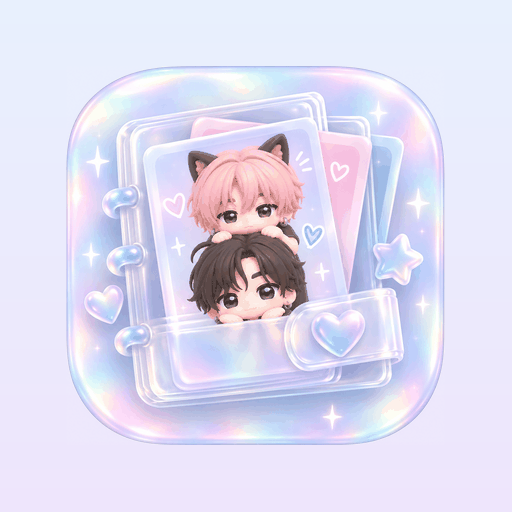
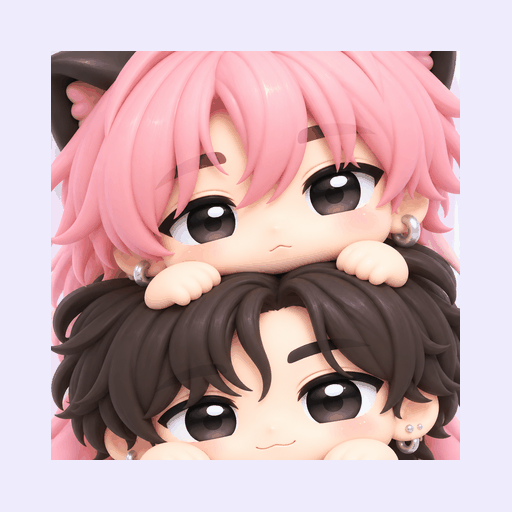
feat: 어두운 테마도 같은 주황으로, 앱 아이콘을 새 그림으로
블록의 다크만 노랑에 남아 있었다. 다른 스킨은 다크와 라이트가 같은 색을
밝기만 달리해 쓰므로, 여기만 노랑과 주황으로 갈리면 테마를 넘길 때 다른
스킨으로 건너간 것처럼 보인다. 밝은 데와 같은 색상(28도)에 세우고,
검은 판 위라 밝기만 70%로 올렸다.

아이콘은 받은 그림으로 갈아끼운다. 이번 그림은 둘레에 흰 여백이 없어
지난번처럼 바탕을 걷어낼 일이 없었고, 크기만 맞춰 줄였다.

마스커블만 다르게 짠다. 안드로이드 런처가 제 모양으로 잘라내므로 그림을
안쪽 80%에 두고 둘레는 원본 위쪽의 연보라로 채웠다 — 동그라미로 잘리든
둥근 네모로 잘리든 두 얼굴이 남는다.

색 수를 256으로 줄여 다섯 장을 296KB에 담았다.

Claude-Session: https://claude.ai/code/session_01AvifJj5rQXoC6UpGbHQjTL

diff --git a/src/styles/global.css b/src/styles/global.css
@@ -3217,10 +3217,15 @@ a { color: inherit; }
   --panel-line: #3d3540;
   --text: #f6f0ea;
   --text-dim: #a89e96;
-  /* 어두운 데서는 받은 색 그대로 — 노랑은 검은 판 위에서 가장 잘 산다 */
-  --accent: #fed672;
-  --accent-ink: #2b1e04;
-  --accent-soft: rgba(254, 214, 114, .18);
+  /*
+   * 어두운 데서도 밝은 데와 같은 색상(28도)에 선다. 다른 스킨도 다크와
+   * 라이트가 같은 색을 밝기만 달리해 쓰므로, 여기만 노랑과 주황으로
+   * 갈리면 테마를 넘길 때 다른 스킨으로 건너간 것처럼 보인다.
+   * 검은 판 위에서는 밝게 올려 두면 된다.
+   */
+  --accent: #ffad66;
+  --accent-ink: #2b1204;
+  --accent-soft: rgba(255, 173, 102, .18);
   /* 그래프가 쓰는 두 색도 장난감 팔레트로 — 이름이 아니라 자리다 */
   --sky: #5fd8b4;
   --violet: #ff8fbe;
@@ -3231,7 +3236,7 @@ a { color: inherit; }
   --shadow-lg: 4px 4px 0 rgba(0, 0, 0, .42);
   --shadow-xl: 7px 7px 0 rgba(0, 0, 0, .46);
   --glow-spread: 3px 3px 0;
-  --glow: 3px 3px 0 rgba(254, 214, 114, .34);
+  --glow: 3px 3px 0 rgba(255, 173, 102, .34);
   --wash:
     repeating-linear-gradient(90deg, rgba(255, 255, 255, .045) 0 1px, transparent 1px 26px),
     repeating-linear-gradient(0deg, rgba(255, 255, 255, .045) 0 1px, transparent 1px 26px),
@@ -3515,7 +3520,7 @@ a { color: inherit; }
 .skin[data-preview='brick'] .skin__swatch {
   background: linear-gradient(
     90deg,
-    #ffd772 0 26%,
+    #ffb06b 0 26%,
     #ffb3d1 26% 48%,
     #7fd6b5 48% 74%,
     #e2352c 74%
